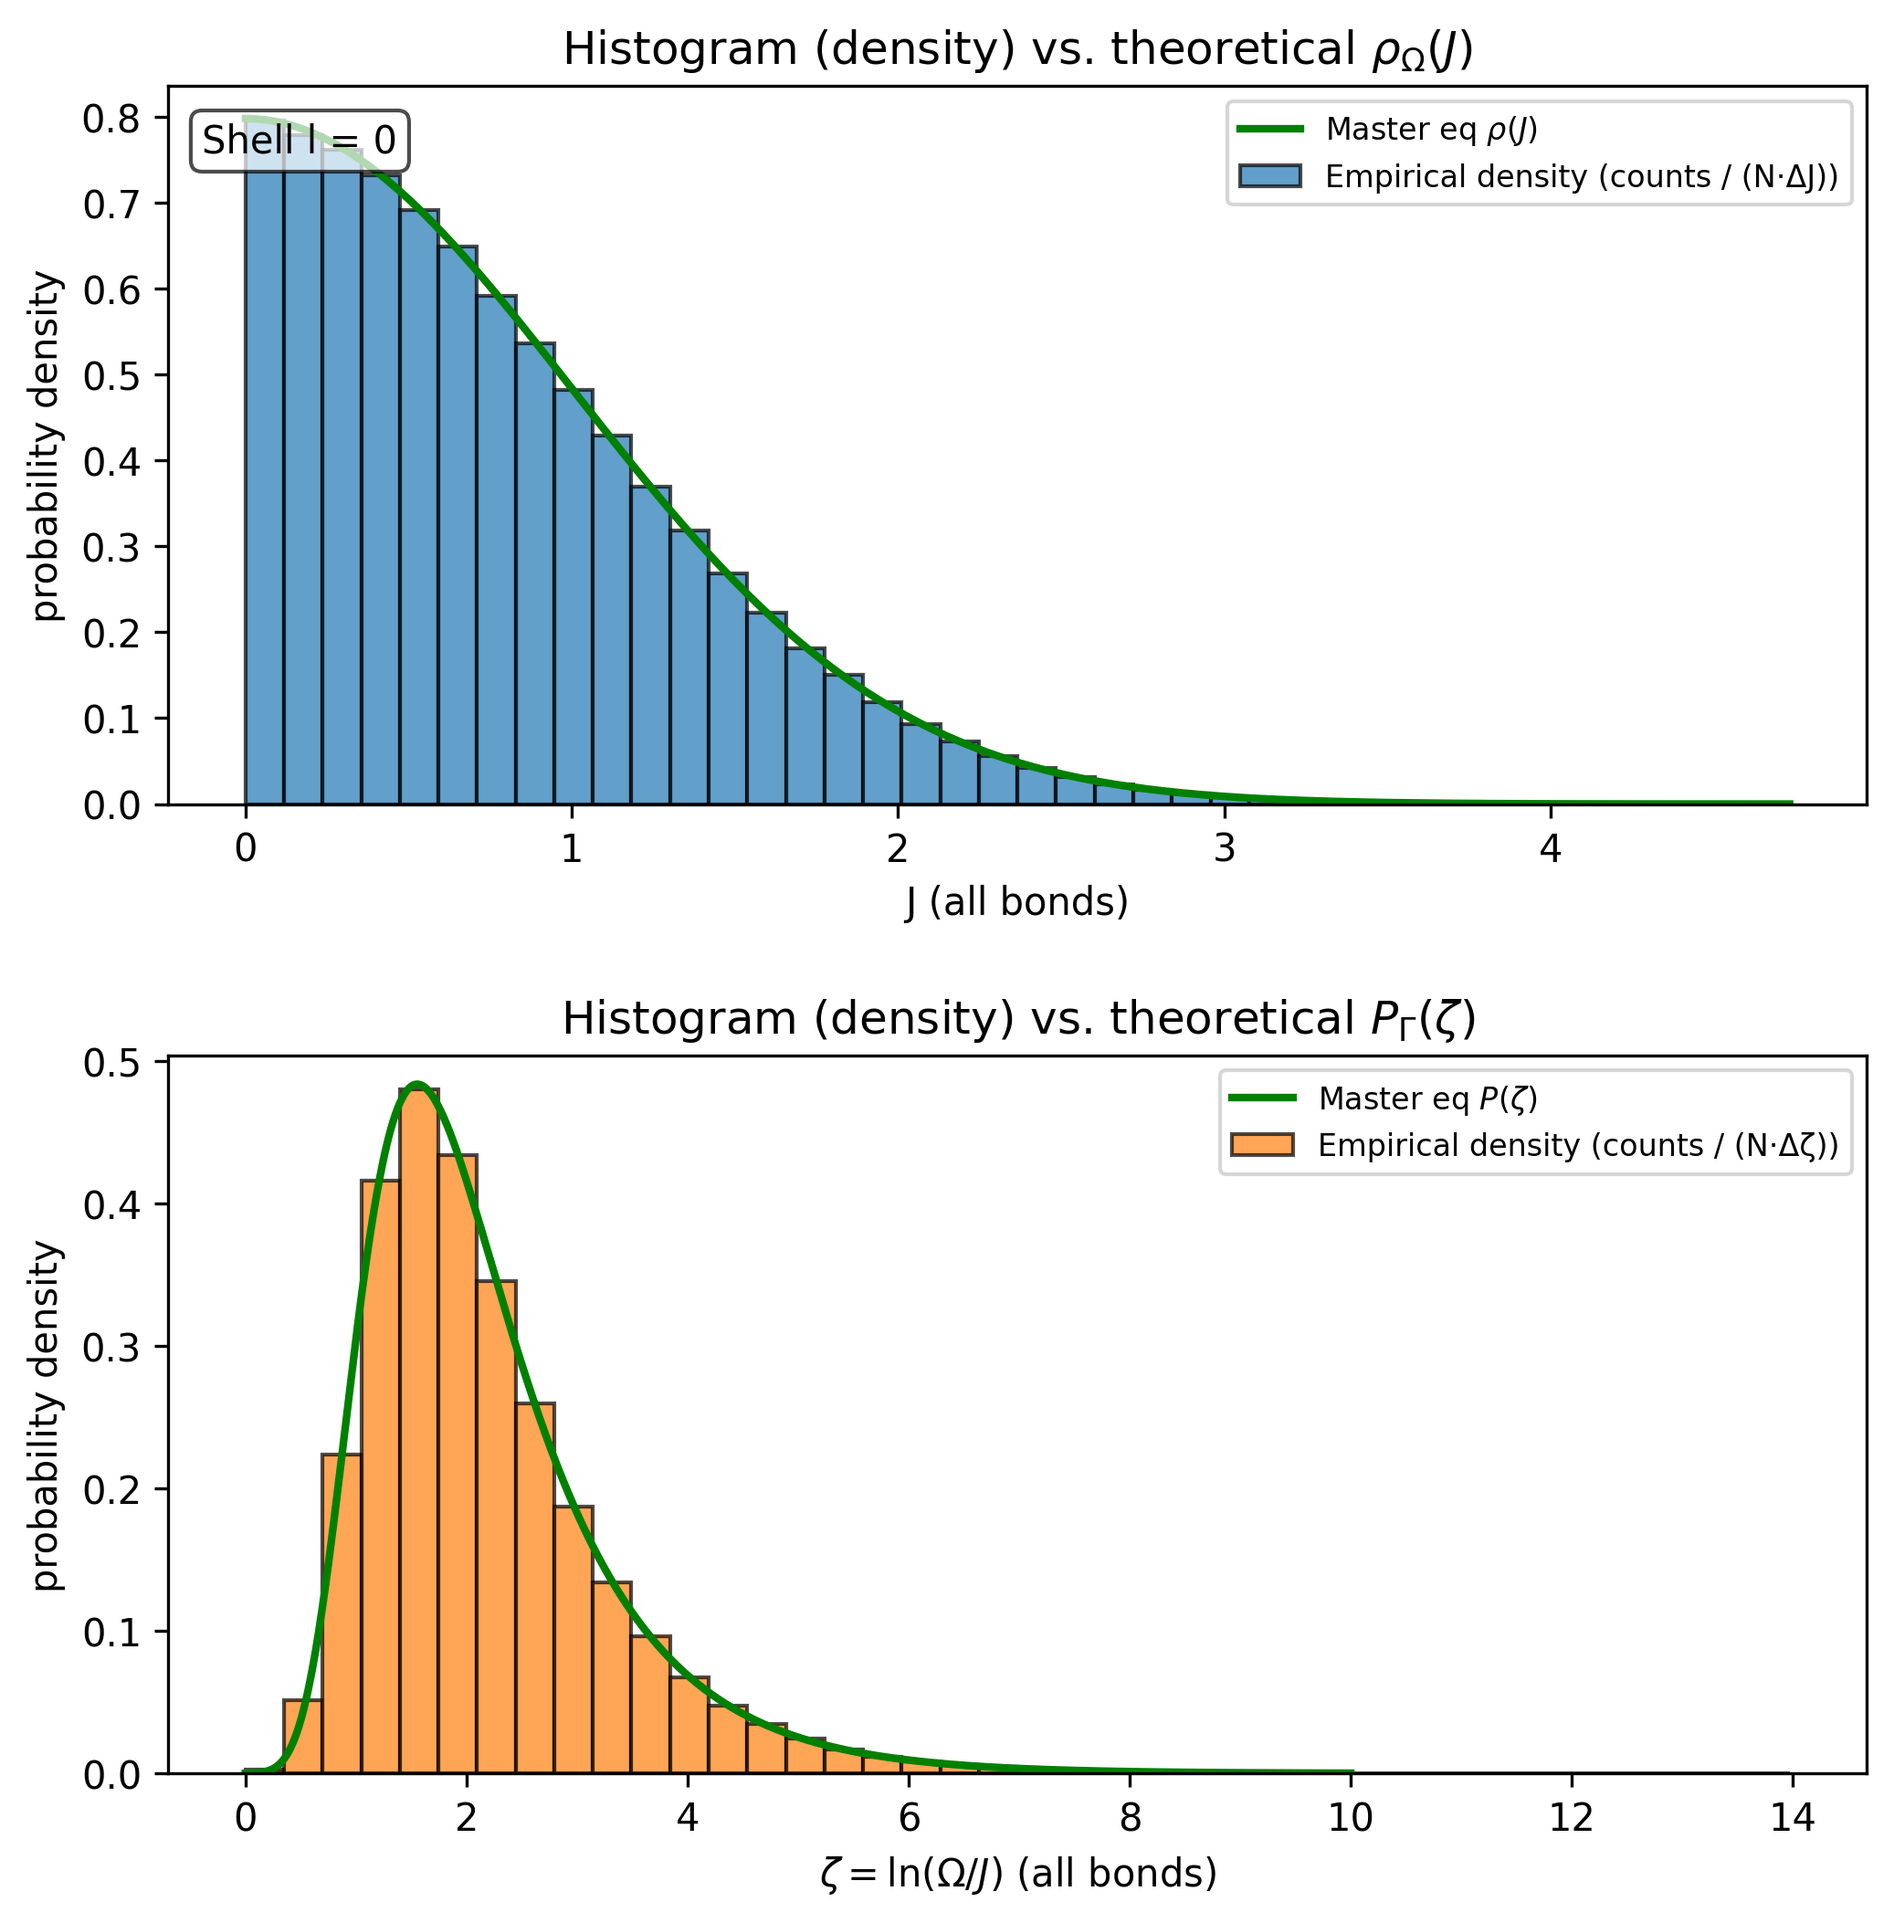
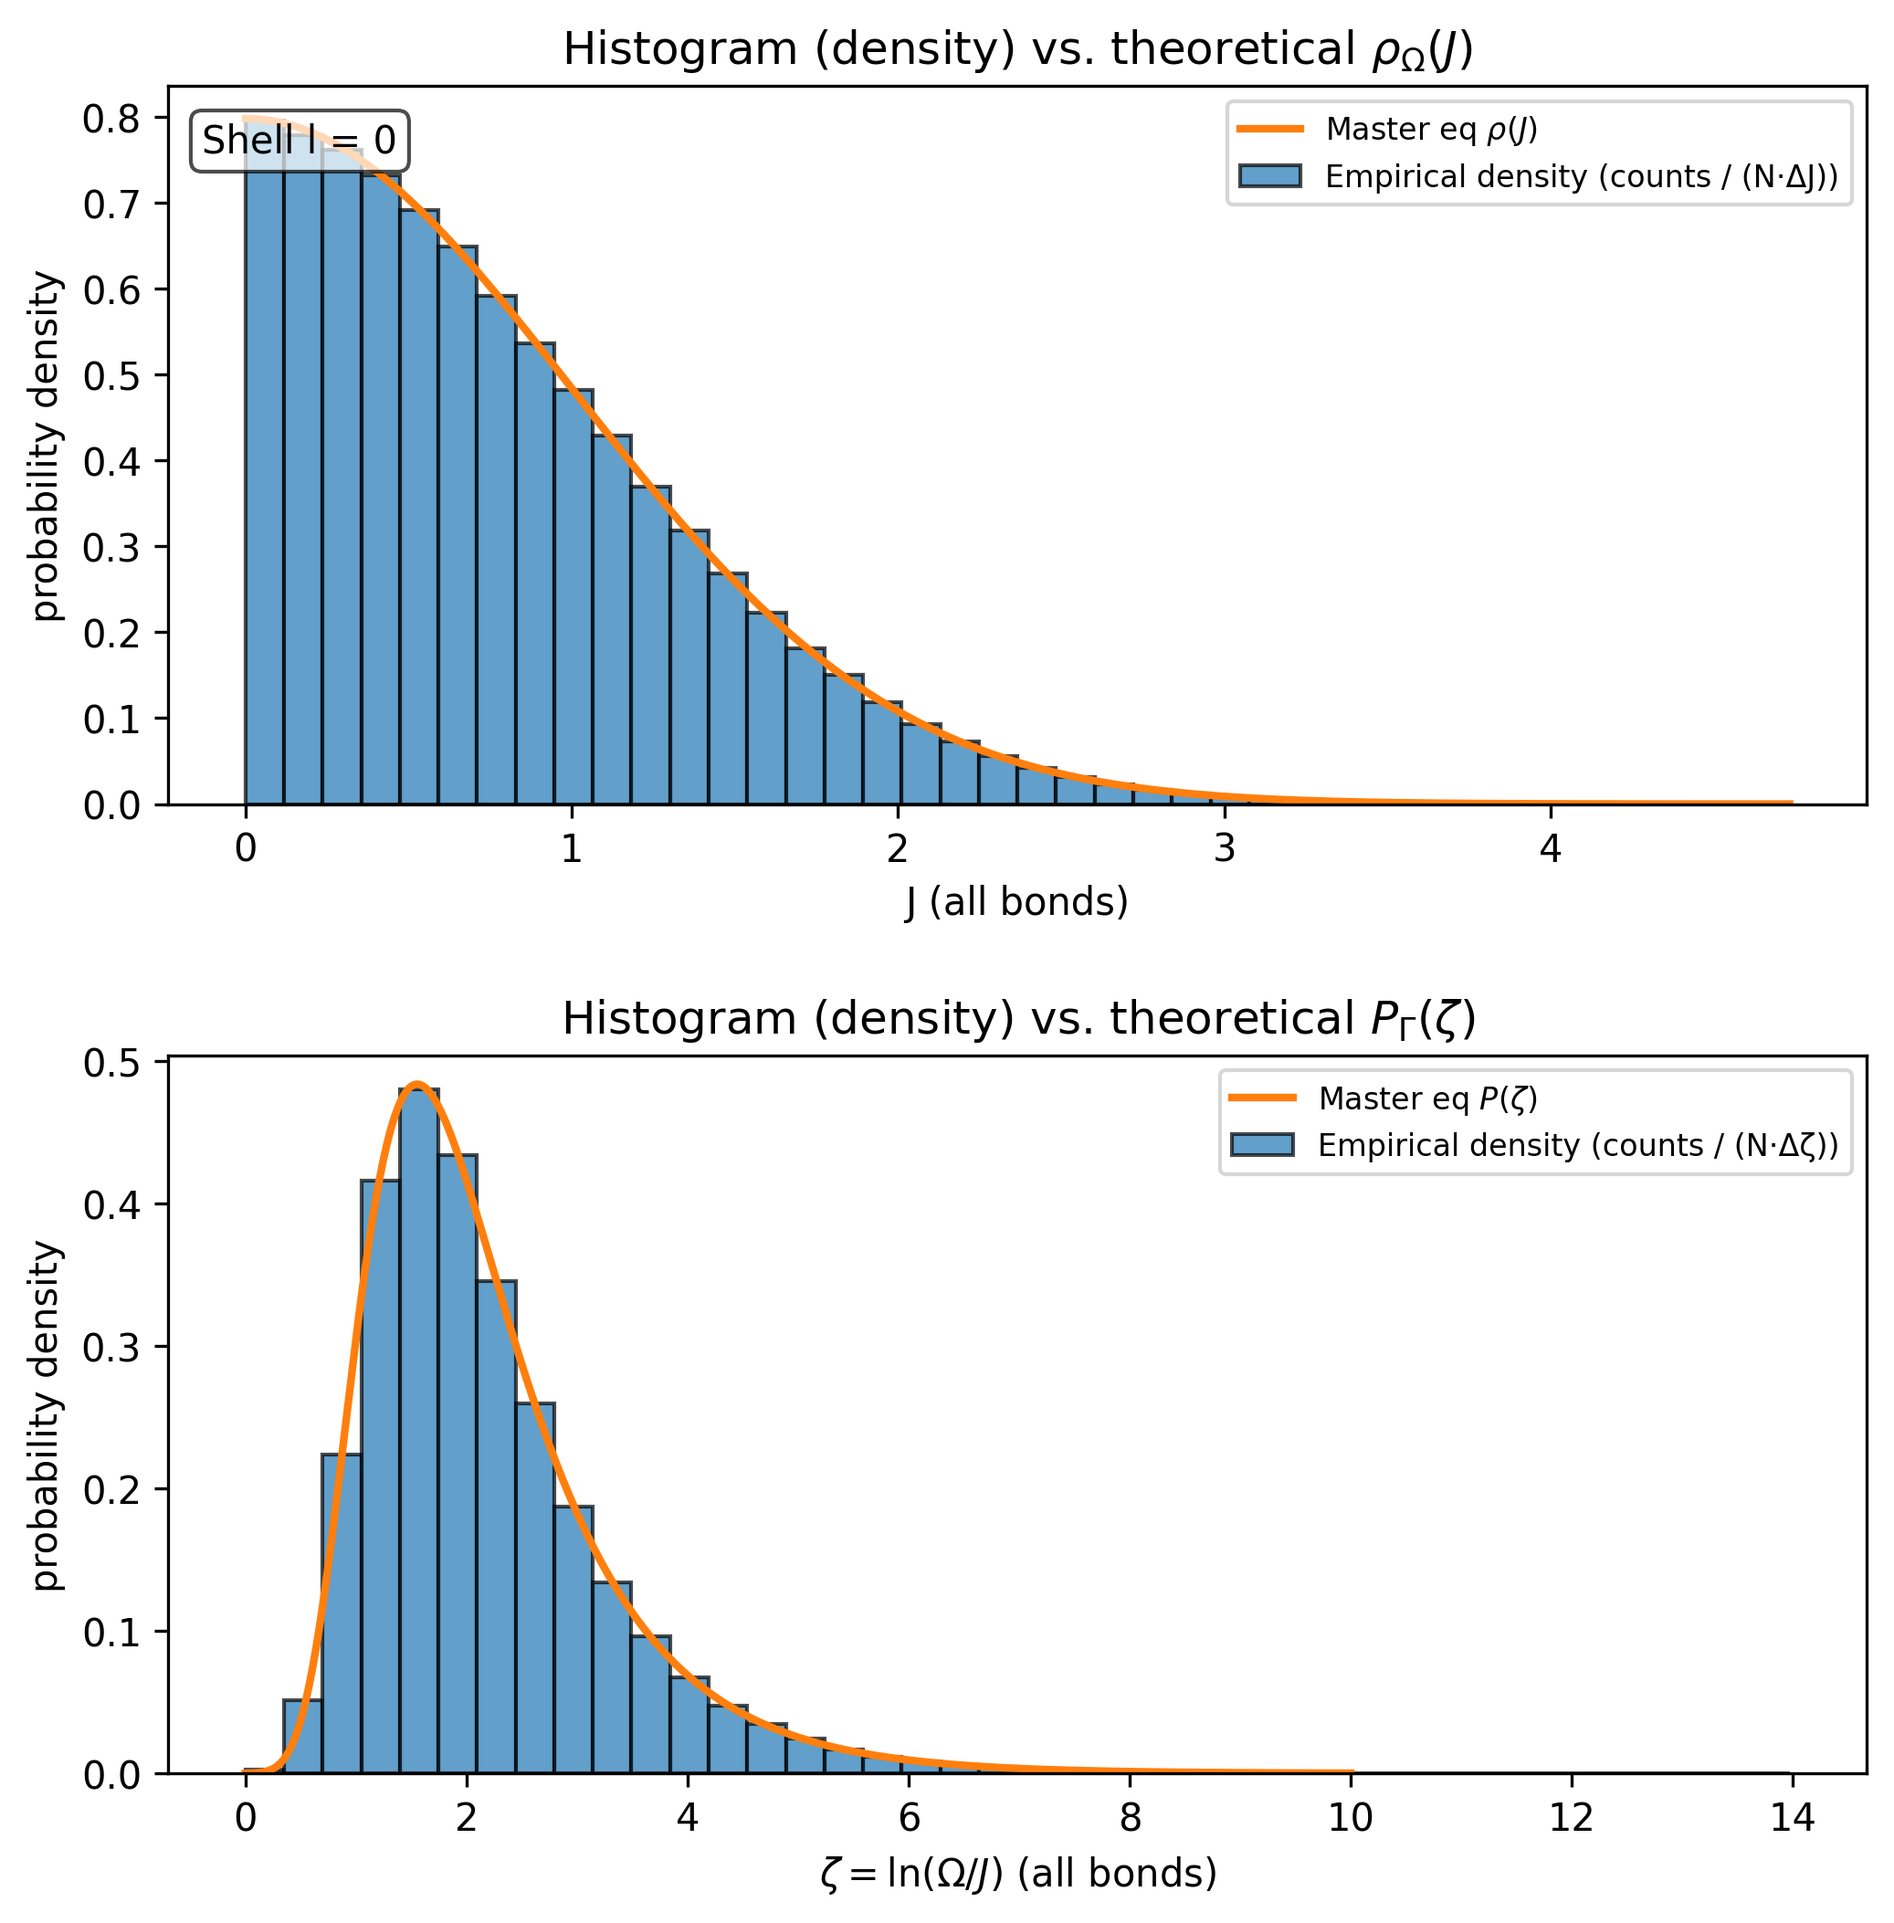
Added plots and codes including long range

diff --git a/Yiyuan_SDRG/fiveguys.py b/Yiyuan_SDRG/fiveguys.py
@@ -1205,7 +1205,7 @@ class SDRGEnsembleGUI:
                 else:
                     heights = np.zeros_like(widths)
 
-                # Main empirical histogram
+                # Main empirical histogram (BLUE)
                 self.ax_J.bar(
                     centers,
                     heights,
@@ -1243,13 +1243,14 @@ class SDRGEnsembleGUI:
                 else:
                     heights_z = np.zeros_like(widths_z)
 
+                # Empirical ζ histogram (BLUE)
                 self.ax_zeta.bar(
                     centers_z,
                     heights_z,
                     width=widths_z,
                     align='center',
                     alpha=0.7,
-                    color='C1',
+                    color='C0',
                     edgecolor='black',
                     label='Empirical density (counts / (N·Δζ))',
                     zorder=2.0,
@@ -1275,7 +1276,8 @@ class SDRGEnsembleGUI:
                         self.ax_J.plot(
                             J_grid,
                             rho_th,
-                            'r-',
+                            color='g',
+                            linestyle='--',
                             lw=2,
                             label=r"Theory $\rho_\Omega(J)$ (density)"
                         )
@@ -1286,7 +1288,8 @@ class SDRGEnsembleGUI:
                         self.ax_zeta.plot(
                             z_grid,
                             P_th,
-                            'r-',
+                            color='g',
+                            linestyle='--',
                             lw=2,
                             label=r"Theory $P_\Gamma(\zeta)$ (density)"
                         )
@@ -1316,18 +1319,18 @@ class SDRGEnsembleGUI:
                     z = self.zeta_grid
                     Pz = self.P_zeta
 
-                    # ζ-space line (green) up to current zmax
+                    # ζ-space line (ORANGE)
                     mask_me_z = z <= zmax
                     if np.any(mask_me_z):
                         self.ax_zeta.plot(
                             z[mask_me_z],
                             Pz[mask_me_z],
-                            color='g',
+                            color='tab:orange',
                             lw=2,
                             label="Master eq $P(\\zeta)$"
                         )
 
-                    # J-space prediction ρ(J) from same P(ζ), with J = Ω e^{-ζ}
+                    # J-space prediction ρ(J) from same P(ζ), with J = Ω e^{-ζ} (ORANGE)
                     J_me = Omega_plot * np.exp(-z)
                     mask_me_J = (J_me > 0) & (J_me <= Omega_plot)
                     if np.any(mask_me_J):
@@ -1339,7 +1342,7 @@ class SDRGEnsembleGUI:
                         self.ax_J.plot(
                             J_line,
                             rho_line,
-                            color='g',
+                            color='tab:orange',
                             lw=2,
                             label="Master eq $\\rho(J)$"
                         )
